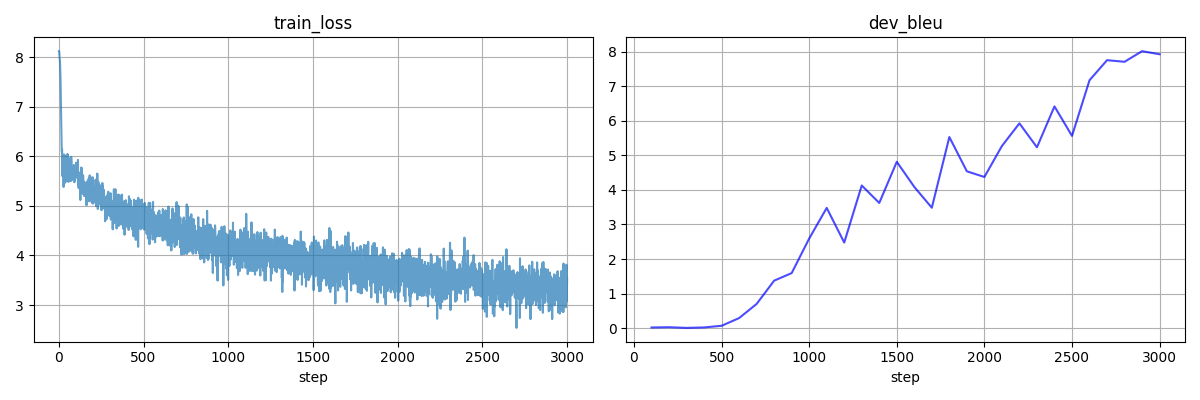
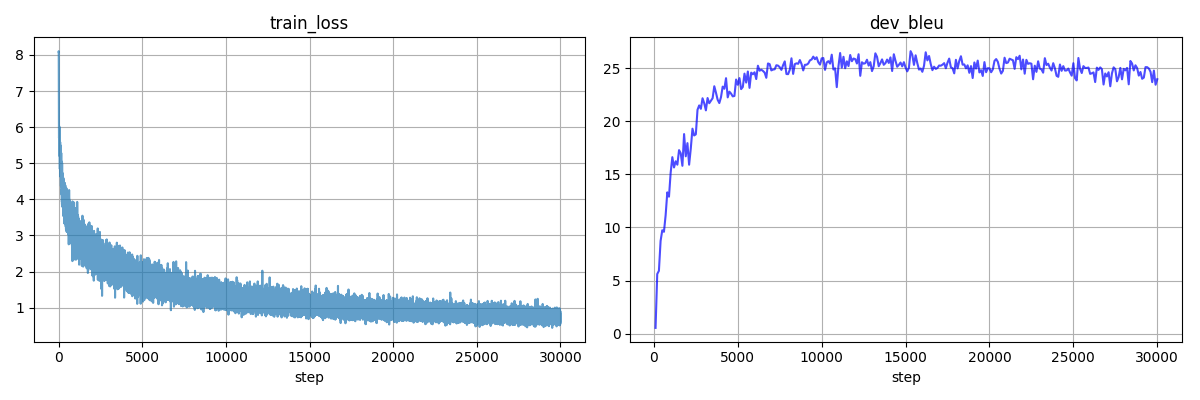
Final fixes + attention map

diff --git a/HW1/attention_visualization.py b/HW1/attention_visualization.py
@@ -21,8 +21,8 @@ def draw_attention(inp_line, translation, probs, inp_voc, out_voc):
     trans_token_indices = out_voc.tokenize(translation)
     probs = probs[:len(trans_token_indices), :len(inp_token_indices)]
 
-    inp_token_strs = [inp_voc.tokens[idx] for idx in inp_token_indices]
-    trans_token_strs = [out_voc.tokens[idx] for idx in trans_token_indices]
+    inp_token_strs = [list(inp_voc.mapper.keys())[idx] for idx in inp_token_indices]
+    trans_token_strs = [list(out_voc.mapper.keys())[idx] for idx in trans_token_indices]
 
     fig, ax = plt.subplots(figsize=(max(8, len(inp_token_strs) * 0.5), max(6, len(trans_token_strs) * 0.4)))
     
@@ -50,6 +50,8 @@ def extract_attention_probs(attentive_model, dev_inp):
     # Extract attention probabilities from states
     # your code here \/
 
+    attn_probs_list = [state[-1] for state in states[1:]]
+    attention_probs = torch.stack(attn_probs_list, dim=1).cpu().detach().numpy()
     # your code here /\
     
     return attention_probs, trans, inp

diff --git a/HW1/training.py b/HW1/training.py
@@ -199,7 +199,8 @@ def train_attentive_model(
             _plot_metrics(metrics, step, plot_interval, save_path=plot_save_path)
 
         if step % eval_interval == 0 and len(metrics["dev_bleu"]) >= 10 and np.mean(metrics["dev_bleu"][-10:], axis=0)[1] > 20:
-            break
+            #break
+            pass
 
     # Save final checkpoint
     torch.save({'model_state_dict': model.state_dict()}, checkpoint_path) 
